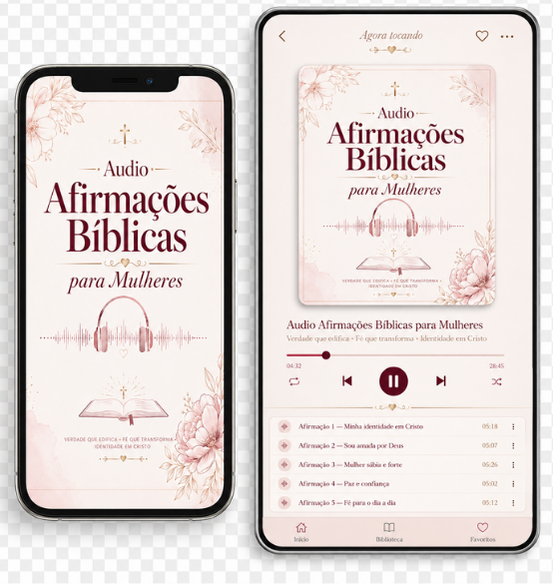
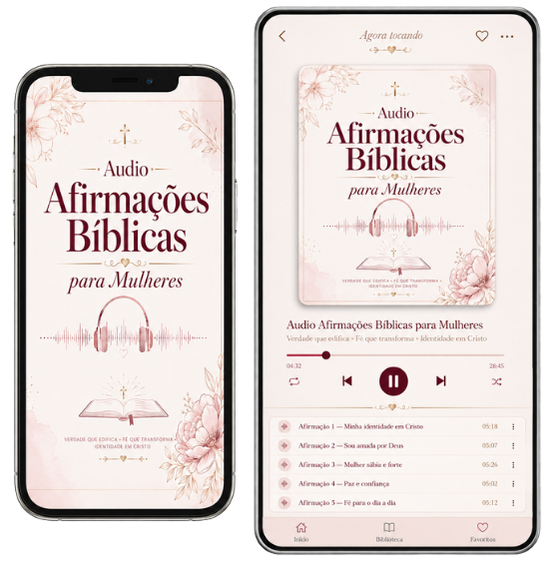
Migra deploy para subdomínio lp.leticiafessel.com.br
- Remove base /mulherdeproverbios/ do vite.config
- Remove basename do BrowserRouter
- Atualiza .htaccess para raiz /
- Atualiza server-dir do FTP para o subdomínio lp
- Remove index.php de compatibilidade

Changed region(s): [[0.0, 0.0308, 0.953, 0.9863]]

diff --git a/src/App.tsx b/src/App.tsx
@@ -13,7 +13,7 @@ const App = () => (
     <TooltipProvider>
       <Toaster />
       <Sonner />
-      <BrowserRouter basename="/mulherdeproverbios">
+      <BrowserRouter>
         <Routes>
           <Route path="/" element={<Index />} />
           {/* ADD ALL CUSTOM ROUTES ABOVE THE CATCH-ALL "*" ROUTE */}

diff --git a/vite.config.ts b/vite.config.ts
@@ -4,7 +4,7 @@ import path from "path";
 
 // https://vitejs.dev/config/
 export default defineConfig(() => ({
-  base: '/mulherdeproverbios/',
+  base: '/',
   server: {
     host: "::",
     port: 8080,